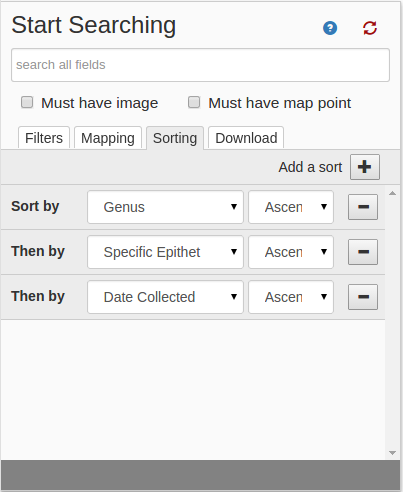
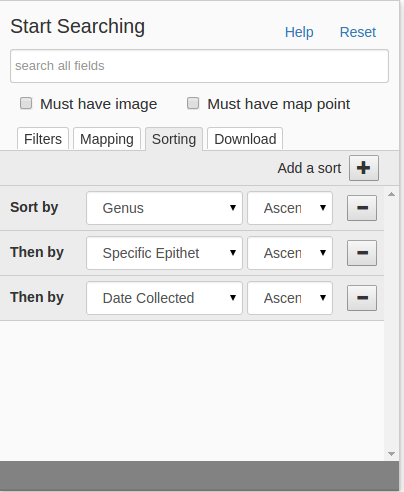
updated images in tutorial

Changed region(s): [[0.0, 0.0, 1.0, 1.0], [0.0, 0.9146, 0.0298, 0.9451]]

diff --git a/app/views/tutorial.html b/app/views/tutorial.html
@@ -96,7 +96,7 @@
 
         		<p>Alternatively, each filter offers the possibility to match a record by the presence or absence of the data field in a record using the <em>Present</em> and <em>Missing</em> checkboxes respectively.</p> 
             
-            <p style="margin-top:10px;">To reset the search form to its default state, use the reset button <img src="/portal/img/tutorial/reset-button.jpg"/> or use the <b>Clear</b> button to simply clear the text boxes and check boxes on screen.</p>
+            <p style="margin-top:10px;">To reset the search form to its default state, use the <b>Reset</b> button or use the <b>Clear</b> button to simply clear the text boxes and check boxes on screen.</p>
 
             <h4>Mapping tab</h4>
             <p>The <em>Mapping</em> tab <em>(Fig. 4)</em> provides the ability to specify geographic boundaries for records through either a circlular or recatangular boundaries. Using this feature limits all results to records with geopoint data. You can specify your bounding by either supplying the NorthWest and SouthEast lat/lon coordinates of a rectangle or provide a lat/lon point with a radius to create a circular boundry. Alternatively you can also draw the rectangle or circle boundary by using the draw feature provided on the map. This feature is covered in the <a href='#map'>map</a> section of this tutorial. 

diff --git a/public/client/js/lib/history.js b/public/client/js/lib/history.js
@@ -30,7 +30,7 @@ module.exports = function(){
     }
 
     this.updateLast = function(searchState){
-        this.history[0]=_.cloneDeep(searchstate);
+        this.history[0] = _.cloneDeep(searchstate);
         this.save();
     }
     
@@ -40,7 +40,7 @@ module.exports = function(){
     }
 
     this.isEmpty = function(){
-        if(this.history.length>0){
+        if(this.history.length > 0){
             return false;
         }else{
             return true;

diff --git a/public/client/js/main.js b/public/client/js/main.js
@@ -41,7 +41,6 @@ function loadPage(){
 $(document).ready(function(){
 	//if errors occur on page load try once to clear localStore and refresh
 	try{
-		//Download.queryToSentence(JSON.parse(localStorage.getItem('history'))[0]);
 		loadPage();
 		localStorage.removeItem('reloaded');
 	}catch(e){
